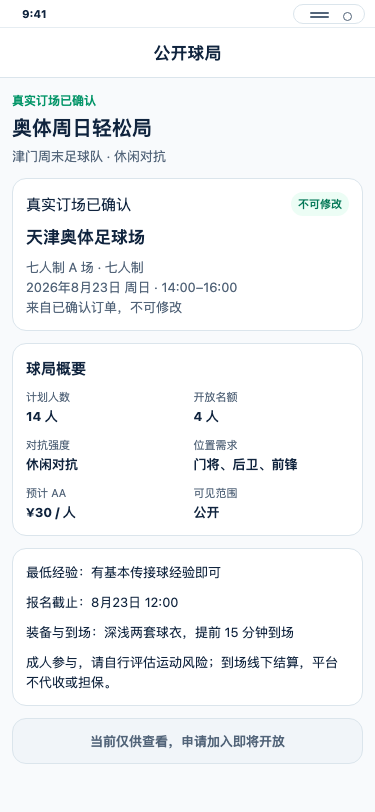
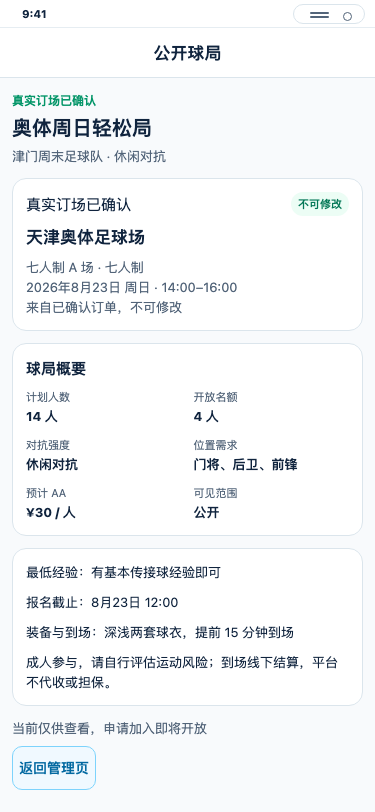
fix: make captain artifact actions honest

Changed region(s): [[0.0293, 0.8621, 0.7627, 0.9852]]

diff --git a/artifacts/ui/references/captain-open-game-data.js b/artifacts/ui/references/captain-open-game-data.js
@@ -7,52 +7,111 @@ const freeze = (value) => {
 };
 
 export const CAPTAIN_OPEN_GAME_STATE_IDS = freeze(["create-ready", "draft-manage", "published-manage", "public-readonly"]);
-export const CONFIRMED_ORDER = freeze({ venue: "天津奥体足球场", pitch: "七人制 A 场", date: "2026年8月23日 周日", time: "14:00–16:00", format: "七人制", booking: "来自已确认订单，不可修改" });
-const baseActions = {
+export const CAPTAIN_OPEN_GAME_INTERNAL_STATE_IDS = freeze([...CAPTAIN_OPEN_GAME_STATE_IDS, "cancelled-readonly"]);
+export const CONFIRMED_ORDER = freeze({
+  venue: "天津奥体足球场", pitch: "七人制 A 场", date: "2026年8月23日 周日", time: "14:00–16:00", format: "七人制", booking: "来自已确认订单，不可修改",
+});
+
+const actions = {
   save: { id: "save-draft", label: "保存草稿", nextState: "draft-manage", fixtureTransition: "save private DRAFT" },
-  preview: { id: "preview", label: "预览公开详情", nextState: "public-readonly", fixtureTransition: "open readonly preview" },
+  preview: { id: "preview", label: "预览公开详情", nextState: "public-readonly", fixtureTransition: "open readonly preview with source" },
   edit: { id: "edit", label: "编辑球局", nextState: "create-ready", fixtureTransition: "restore editable Fixture" },
-  abandon: { id: "abandon", label: "放弃草稿", nextState: "create-ready", fixtureTransition: "confirm then abandon private DRAFT" },
-  publish: { id: "publish", label: "确认发布", nextState: "published-manage", fixtureTransition: "publish Fixture game" },
+  abandon: { id: "abandon", label: "放弃草稿", nextState: "draft-manage", fixtureTransition: "open abandon confirmation" },
+  beginPublish: { id: "begin-publish", label: "发布球局", nextState: "draft-manage", fixtureTransition: "open publish confirmation" },
   share: { id: "share", label: "分享球局", nextState: "published-manage", fixtureTransition: "open Fixture share sheet" },
-  open: { id: "open-public", label: "查看公开页", nextState: "public-readonly", fixtureTransition: "open readonly public page" },
+  open: { id: "open-public", label: "查看公开页", nextState: "public-readonly", fixtureTransition: "open readonly public page with source" },
   cancel: { id: "cancel", label: "取消球局", nextState: "published-manage", fixtureTransition: "open cancel confirmation; booking unchanged" },
+  return: { id: "return-manage", label: "返回管理页", nextState: "draft-manage", fixtureTransition: "return to deterministic manager source" },
 };
+
 export const CAPTAIN_OPEN_GAME_STATES = freeze({
-  "create-ready": { id: "create-ready", title: "创建球局", actions: [baseActions.save], values: { total: 14, fixed: 8, open: 4, intensity: "休闲对抗", positions: "门将、后卫、前锋", aa: "¥30 / 人", deadline: "8月23日 12:00", visibility: "公开" } },
-  "draft-manage": { id: "draft-manage", title: "管理球局", status: "私有草稿", description: "仅你可见，尚未公开或分享。", actions: [baseActions.preview, baseActions.edit, baseActions.abandon, baseActions.publish] },
-  "published-manage": { id: "published-manage", title: "管理球局", status: "已发布", description: "公开详情已可查看；申请功能尚未开放。", actions: [baseActions.share, baseActions.open, baseActions.edit, baseActions.cancel], cancelNotice: "只取消本次开放球局，不会取消已预订场地，也不会发起退款。" },
-  "public-readonly": { id: "public-readonly", title: "公开球局", notice: "当前仅供查看，申请加入即将开放", actions: [] },
+  "create-ready": { id: "create-ready", title: "创建球局", actions: [actions.save], values: { total: 14, fixed: 8, open: 4, intensity: "休闲对抗", positions: "门将、后卫、前锋", aa: "¥30 / 人", deadline: "8月23日 12:00", visibility: "公开" } },
+  "draft-manage": { id: "draft-manage", title: "管理球局", status: "私有草稿", description: "仅你可见，尚未公开或分享。", actions: [actions.preview, actions.edit, actions.abandon, actions.beginPublish] },
+  "published-manage": { id: "published-manage", title: "管理球局", status: "已发布", description: "公开详情已可查看；申请功能尚未开放。", actions: [actions.share, actions.open, actions.edit, actions.cancel], cancelNotice: "只取消本次开放球局，不会取消已预订场地，也不会发起退款。" },
+  "public-readonly": { id: "public-readonly", title: "公开球局", notice: "当前仅供查看，申请加入即将开放", actions: [actions.return] },
+  "cancelled-readonly": { id: "cancelled-readonly", title: "管理球局", lifecycle: "CANCELLED", status: "球局已取消", description: "本次开放球局已取消；真实订场、订单和退款状态均未改变。", actions: [] },
+});
+
+export const FIXTURE_PANELS = freeze({
+  publish: {
+    title: "发布前确认", message: "发布后会展示下列公开信息；平台不代收或担保线下结算。",
+    items: ["真实场地", "开放名额", "预计 AA", "线下结算", "报名截止", "可见范围"],
+    details: [["真实场地", "天津奥体足球场 · 七人制 A 场"], ["开放名额", "4 人"], ["预计 AA", "¥30 / 人"], ["线下结算", "到场线下结算，平台不代收或担保"], ["报名截止", "8月23日 12:00"], ["可见范围", "公开"]],
+    close: { id: "close-panel", label: "返回修改", fixtureTransition: "close publish confirmation" },
+    confirm: { id: "confirm-publish", label: "确认发布", fixtureTransition: "publish Fixture game" },
+  },
+  abandon: {
+    title: "确认放弃草稿？", message: "草稿不会公开，也不会影响已预订场地。",
+    close: { id: "close-panel", label: "继续保留", fixtureTransition: "keep private DRAFT" },
+    confirm: { id: "confirm-abandon", label: "确认放弃草稿", fixtureTransition: "abandon private DRAFT" },
+  },
+  cancel: {
+    title: "确认取消球局？", message: "只取消本次开放球局，不会取消已预订场地，也不会发起退款。",
+    close: { id: "close-panel", label: "继续保留", fixtureTransition: "keep published game" },
+    confirm: { id: "confirm-cancel", label: "确认取消球局", fixtureTransition: "set Fixture lifecycle to CANCELLED; booking unchanged" },
+  },
+  share: {
+    title: "分享球局", message: "Fixture 仅演示微信分享面板；分享不改变球局状态。",
+    close: { id: "close-panel", label: "关闭", fixtureTransition: "dismiss Fixture share sheet" },
+  },
 });
 
 const app = typeof document === "undefined" ? null : document.querySelector("#captain-open-game-app");
-const query = new URLSearchParams(typeof window === "undefined" ? "" : window.location.search);
-let stateId = CAPTAIN_OPEN_GAME_STATE_IDS.includes(query.get("state")) ? query.get("state") : "create-ready";
+const getRoute = () => {
+  const params = new URLSearchParams(typeof window === "undefined" ? "" : window.location.search);
+  const state = CAPTAIN_OPEN_GAME_INTERNAL_STATE_IDS.includes(params.get("state")) ? params.get("state") : "create-ready";
+  const from = ["draft-manage", "published-manage"].includes(params.get("from")) ? params.get("from") : "published-manage";
+  const panel = ["publish", "abandon", "cancel", "share"].includes(params.get("panel")) ? params.get("panel") : null;
+  return { state, from, panel };
+};
+let { state: stateId, from: returnState, panel } = getRoute();
 let feedback = "";
 let formValues = { ...CAPTAIN_OPEN_GAME_STATES["create-ready"].values };
-let overlay = null;
+
 const el = (tag, className, text) => { const node = document.createElement(tag); if (className) node.className = className; if (text !== undefined) node.textContent = text; return node; };
 const button = (action, className = "secondary") => { const node = el("button", className, action.label); node.type = "button"; node.dataset.action = action.id; node.setAttribute("aria-label", action.label); return node; };
-const system = (title) => { const frag = document.createDocumentFragment(); const top = el("div", "system-row"); top.append(el("span", "system-time", "9:41"), el("span", "native-capsule")); const nav = el("header", "nav"); nav.append(el("span", "nav-spacer"), el("h1", "", title), el("span", "nav-spacer")); frag.append(top, nav); return frag; };
+const system = (title) => { const fragment = document.createDocumentFragment(); const top = el("div", "system-row"); top.append(el("span", "system-time", "9:41"), el("span", "native-capsule")); const nav = el("header", "nav"); nav.append(el("span", "nav-spacer"), el("h1", "", title), el("span", "nav-spacer")); fragment.append(top, nav); return fragment; };
 const orderCard = () => { const card = el("section", "card section"); const heading = el("div", "summary-title"); heading.append(el("span", "", "真实订场已确认"), el("span", "readonly", "不可修改")); const name = el("h2", "summary-name", CONFIRMED_ORDER.venue); const meta = el("p", "summary-meta"); meta.append(`${CONFIRMED_ORDER.pitch} · ${CONFIRMED_ORDER.format}`, document.createElement("br"), `${CONFIRMED_ORDER.date} · ${CONFIRMED_ORDER.time}`, document.createElement("br"), CONFIRMED_ORDER.booking); card.append(heading, name, meta); return card; };
 const section = (title, content) => { const card = el("section", "card section"); card.append(el("h2", "section-title", title), content); return card; };
 const inputRow = (label, value, help) => { const row = el("div", "form-row"); row.append(el("span", "field-label", label), el("div", "input-shell", value)); if (help) row.append(el("span", "field-help", help)); return row; };
-const stepper = (label, value, actionPrefix, help) => { const row = el("div", "form-row"); const control = el("div", "stepper"); const decrement = button({ id: `${actionPrefix}-decrease`, label: `${label}减少`, nextState: "create-ready", fixtureTransition: "update form Fixture value" }, "icon-button"); decrement.textContent = "−"; const increment = button({ id: `${actionPrefix}-increase`, label: `${label}增加`, nextState: "create-ready", fixtureTransition: "update form Fixture value" }, "icon-button"); increment.textContent = "+"; control.append(decrement, el("span", "stepper-value", String(value)), increment); row.append(el("span", "field-label", label), control, el("span", "field-help", help)); return row; };
-const selections = (items, active) => { const wrap = el("div", "selection-row"); items.forEach((item) => wrap.append(el("span", `selection${item === active || active.includes?.(item) ? " selection--active" : ""}`, item))); return wrap; };
-const createScreen = (state) => {
+const stepper = (label, value, prefix, help) => { const row = el("div", "form-row"); const control = el("div", "stepper"); const decrement = button({ id: `${prefix}-decrease`, label: `${label}减少` }, "icon-button"); decrement.textContent = "−"; const increment = button({ id: `${prefix}-increase`, label: `${label}增加` }, "icon-button"); increment.textContent = "+"; control.append(decrement, el("span", "stepper-value", String(value)), increment); row.append(el("span", "field-label", label), control, el("span", "field-help", help)); return row; };
+
+const createScreen = () => {
   const screen = el("section", "screen");
   screen.append(orderCard());
-  const group = el("div", ""); group.append(inputRow("球局名称", "奥体周日轻松局"), inputRow("球队名称", "津门周末足球队")); screen.append(section("球局与球队", group));
-  const numbers = el("div", ""); numbers.append(stepper("计划总人数", formValues.total, "total", "范围 4–30 人"), stepper("已有固定队员", formValues.fixed, "fixed", "包含队长本人"), stepper("开放给散客", formValues.open, "open", "至少开放 1 个名额"), el("p", "quantity-copy", `计划共 ${formValues.total} 人，当前固定 ${formValues.fixed} 人，本次开放 ${formValues.open} 个名额`)); screen.append(section("人数与开放名额", numbers));
-  const requirements = el("div", ""); requirements.append(inputRow("对抗强度", formValues.intensity), inputRow("最低经验说明", "有基本传接球经验即可"), inputRow("位置需求", formValues.positions)); screen.append(section("强度、经验与位置", requirements));
-  const terms = el("div", ""); terms.append(inputRow("预计人均 AA", formValues.aa, "到场线下结算，平台不代收或担保"), inputRow("报名截止", formValues.deadline, "不晚于开场前 2 小时"), inputRow("可见范围", formValues.visibility, "公开与仅链接访问均展示相同脱敏详情")); screen.append(section("费用、截止与可见范围", terms));
+  const group = el("div"); group.append(inputRow("球局名称", "奥体周日轻松局"), inputRow("球队名称", "津门周末足球队")); screen.append(section("球局与球队", group));
+  const numbers = el("div"); numbers.append(stepper("计划总人数", formValues.total, "total", "范围 4–30 人"), stepper("已有固定队员", formValues.fixed, "fixed", "包含队长本人"), stepper("开放给散客", formValues.open, "open", "至少开放 1 个名额"), el("p", "quantity-copy", `计划共 ${formValues.total} 人，当前固定 ${formValues.fixed} 人，本次开放 ${formValues.open} 个名额`)); screen.append(section("人数与开放名额", numbers));
+  const requirements = el("div"); requirements.append(inputRow("对抗强度", formValues.intensity), inputRow("最低经验说明", "有基本传接球经验即可"), inputRow("位置需求", formValues.positions)); screen.append(section("强度、经验与位置", requirements));
+  const terms = el("div"); terms.append(inputRow("预计人均 AA", formValues.aa, "到场线下结算，平台不代收或担保"), inputRow("报名截止", formValues.deadline, "不晚于开场前 2 小时"), inputRow("可见范围", formValues.visibility, "公开与仅链接访问均展示相同脱敏详情")); screen.append(section("费用、截止与可见范围", terms));
   screen.append(el("p", "disclosure", "装备：深浅两套球衣；提前 15 分钟到场。保存后仅创建你可见的私有草稿。"));
   return screen;
 };
 const gameSummary = () => { const card = el("section", "card section"); const grid = el("dl", "summary-grid"); [["计划人数", "14 人"], ["开放名额", "4 人"], ["对抗强度", "休闲对抗"], ["位置需求", "门将、后卫、前锋"], ["预计 AA", "¥30 / 人"], ["可见范围", "公开"]].forEach(([term, value]) => { const item = el("div"); item.append(el("dt", "", term), el("dd", "", value)); grid.append(item); }); card.append(el("h2", "summary-title", "球局概要"), grid); return card; };
-const manageScreen = (state) => { const screen = el("section", "screen screen--manage"); const status = el("section", "status-row"); const copy = el("div"); copy.append(el("strong", "", state.status), el("p", "", state.description)); status.append(el("span", "status-dot"), copy); screen.append(status, orderCard(), gameSummary()); const actions = el("section", "action-list section"); state.actions.forEach((action) => actions.append(button(action, action.id === "cancel" || action.id === "abandon" ? "danger" : action.id === "publish" ? "primary" : "secondary"))); screen.append(section("可用操作", actions)); if (state.cancelNotice) screen.append(el("p", "disclosure", state.cancelNotice)); return screen; };
-const publicScreen = (state) => { const screen = el("section", "screen screen--public"); screen.append(el("p", "eyebrow", "真实订场已确认"), el("h2", "public-heading", "奥体周日轻松局"), el("p", "public-subtitle", "津门周末足球队 · 休闲对抗"), orderCard(), gameSummary()); const details = el("section", "card public-details section"); details.append(el("p", "", "最低经验：有基本传接球经验即可"), el("p", "", "报名截止：8月23日 12:00"), el("p", "", "装备与到场：深浅两套球衣，提前 15 分钟到场"), el("p", "", "成人参与，请自行评估运动风险；到场线下结算，平台不代收或担保。")); screen.append(details, el("section", "notice", state.notice)); return screen; };
-const renderOverlay = () => { if (!overlay) return null; const scrim = el("section", "fixture-scrim"); const sheet = el("section", "fixture-sheet"); const action = { id: overlay.action, label: overlay.label, nextState: stateId, fixtureTransition: overlay.transition }; sheet.append(el("h2", "", overlay.title), el("p", "", overlay.message), button(action, overlay.danger ? "danger" : "primary")); scrim.append(sheet); return scrim; };
-const transition = (action) => { const step = /^(total|fixed|open)-(increase|decrease)$/.exec(action); if (step) { const [, field, direction] = step; const amount = direction === "increase" ? 1 : -1; const limits = { total: [4, 30], fixed: [1, formValues.total - formValues.open], open: [1, formValues.total - formValues.fixed] }; formValues[field] = Math.min(limits[field][1], Math.max(limits[field][0], formValues[field] + amount)); feedback = "update form Fixture value"; render(); return; } if (action === "share") { feedback = "open Fixture share sheet"; overlay = { title: "分享球局", message: "Fixture 仅演示微信分享面板；分享不改变球局状态。", label: "关闭", action: "dismiss-overlay", transition: "dismiss Fixture share sheet" }; render(); return; } if (action === "cancel") { feedback = "open cancel confirmation; booking unchanged"; overlay = { title: "确认取消球局？", message: "只取消本次开放球局，不会取消已预订场地，也不会发起退款。", label: "确认取消球局", action: "confirm-cancel", transition: "confirm cancellation Fixture; booking unchanged", danger: true }; render(); return; } if (action === "abandon") { feedback = "open abandon confirmation"; overlay = { title: "确认放弃草稿？", message: "草稿不会公开，也不会影响已预订场地。", label: "确认放弃草稿", action: "confirm-abandon", transition: "confirm abandon private DRAFT", danger: true }; render(); return; } if (action === "dismiss-overlay") { feedback = "dismiss Fixture share sheet"; overlay = null; render(); return; } if (action === "confirm-cancel") { feedback = "cancelled open game Fixture; booking unchanged"; overlay = null; render(); return; } if (action === "confirm-abandon") { feedback = "abandoned private DRAFT Fixture"; overlay = null; stateId = "create-ready"; render(); return; } const current = CAPTAIN_OPEN_GAME_STATES[stateId]; const found = current.actions.find(({ id }) => id === action); if (!found) return; feedback = found.fixtureTransition; stateId = found.nextState; const params = new URLSearchParams(window.location.search); params.set("state", stateId); window.history.replaceState({}, "", `${window.location.pathname}?${params}`); render(); };
-function render() { const state = CAPTAIN_OPEN_GAME_STATES[stateId]; app.replaceChildren(system(state.title)); if (feedback) app.append(el("p", "fixture-feedback", `Fixture：${feedback}`)); app.append(stateId === "create-ready" ? createScreen(state) : stateId === "public-readonly" ? publicScreen(state) : manageScreen(state)); if (stateId === "create-ready") { const footer = el("footer", "footer"); footer.append(button(baseActions.save, "primary")); app.append(footer); } const sheet = renderOverlay(); if (sheet) app.append(sheet); app.querySelectorAll("button[data-action]").forEach((node) => node.addEventListener("click", () => transition(node.dataset.action))); }
-if (app) render();
+const manageScreen = (state) => { const screen = el("section", "screen screen--manage"); const status = el("section", `status-row${state.lifecycle === "CANCELLED" ? " status-row--cancelled" : ""}`); const copy = el("div"); copy.append(el("strong", "", state.status), el("p", "", state.description)); status.append(el("span", "status-dot"), copy); screen.append(status, orderCard(), gameSummary()); if (state.actions.length) { const list = el("section", "action-list section"); state.actions.forEach((action) => list.append(button(action, action.id === "cancel" || action.id === "abandon" ? "danger" : action.id === "begin-publish" ? "primary" : "secondary"))); screen.append(section("可用操作", list)); } if (state.cancelNotice) screen.append(el("p", "disclosure", state.cancelNotice)); return screen; };
+const publicScreen = (state) => { const screen = el("section", "screen screen--public"); screen.append(el("p", "eyebrow", "真实订场已确认"), el("h2", "public-heading", "奥体周日轻松局"), el("p", "public-subtitle", "津门周末足球队 · 休闲对抗"), orderCard(), gameSummary()); const details = el("section", "card public-details section"); details.append(el("p", "", "最低经验：有基本传接球经验即可"), el("p", "", "报名截止：8月23日 12:00"), el("p", "", "装备与到场：深浅两套球衣，提前 15 分钟到场"), el("p", "", "成人参与，请自行评估运动风险；到场线下结算，平台不代收或担保。")); screen.append(details, el("p", "public-notice", state.notice), button(actions.return, "secondary")); return screen; };
+const renderPanel = () => {
+  if (!panel) return null;
+  const data = FIXTURE_PANELS[panel]; const scrim = el("section", "fixture-scrim"); const sheet = el("section", "fixture-sheet");
+  sheet.append(el("h2", "", data.title), el("p", "", data.message));
+  if (data.details) { const details = el("dl", "confirm-details"); data.details.forEach(([label, value]) => { const item = el("div"); item.append(el("dt", "", label), el("dd", "", value)); details.append(item); }); sheet.append(details); }
+  const controls = el("div", "fixture-sheet__actions"); if (data.close) controls.append(button(data.close, "secondary")); if (data.confirm) controls.append(button(data.confirm, panel === "cancel" || panel === "abandon" ? "danger" : "primary")); sheet.append(controls); scrim.append(sheet); return scrim;
+};
+const syncUrl = () => { const params = new URLSearchParams(window.location.search); params.set("state", stateId); if (stateId === "public-readonly") params.set("from", returnState); else params.delete("from"); window.history.pushState({ state: stateId, from: returnState }, "", `${window.location.pathname}?${params}`); };
+const go = (nextState, source = stateId) => { stateId = nextState; if (["draft-manage", "published-manage"].includes(source)) returnState = source; panel = null; syncUrl(); render(); };
+const transition = (action) => {
+  const step = /^(total|fixed|open)-(increase|decrease)$/.exec(action);
+  if (step) { const [, field, direction] = step; const amount = direction === "increase" ? 1 : -1; const limits = { total: [4, 30], fixed: [1, formValues.total - formValues.open], open: [1, formValues.total - formValues.fixed] }; formValues[field] = Math.min(limits[field][1], Math.max(limits[field][0], formValues[field] + amount)); feedback = "update form Fixture value"; render(); return; }
+  if (action === "begin-publish") { feedback = actions.beginPublish.fixtureTransition; panel = "publish"; render(); return; }
+  if (action === "abandon") { feedback = actions.abandon.fixtureTransition; panel = "abandon"; render(); return; }
+  if (action === "cancel") { feedback = actions.cancel.fixtureTransition; panel = "cancel"; render(); return; }
+  if (action === "share") { feedback = actions.share.fixtureTransition; panel = "share"; render(); return; }
+  if (action === "close-panel") { feedback = FIXTURE_PANELS[panel].close.fixtureTransition; panel = null; render(); return; }
+  if (action === "confirm-publish") { feedback = FIXTURE_PANELS.publish.confirm.fixtureTransition; go("published-manage", "draft-manage"); return; }
+  if (action === "confirm-abandon") { feedback = FIXTURE_PANELS.abandon.confirm.fixtureTransition; go("create-ready"); return; }
+  if (action === "confirm-cancel") { feedback = FIXTURE_PANELS.cancel.confirm.fixtureTransition; go("cancelled-readonly", "published-manage"); return; }
+  if (action === "return-manage") { feedback = actions.return.fixtureTransition; go(returnState, returnState); return; }
+  const found = CAPTAIN_OPEN_GAME_STATES[stateId].actions.find(({ id }) => id === action); if (!found) return;
+  feedback = found.fixtureTransition; go(found.nextState, stateId);
+};
+function render() { const state = CAPTAIN_OPEN_GAME_STATES[stateId]; app.replaceChildren(system(state.title)); if (feedback) app.append(el("p", "fixture-feedback", `Fixture：${feedback}`)); app.append(stateId === "create-ready" ? createScreen() : stateId === "public-readonly" ? publicScreen(state) : manageScreen(state)); if (stateId === "create-ready") { const footer = el("footer", "footer"); footer.append(button(actions.save, "primary")); app.append(footer); } const overlay = renderPanel(); if (overlay) app.append(overlay); app.querySelectorAll("button[data-action]").forEach((node) => node.addEventListener("click", () => transition(node.dataset.action))); }
+if (app) { window.addEventListener("popstate", () => { ({ state: stateId, from: returnState, panel } = getRoute()); render(); }); render(); }

diff --git a/artifacts/ui/references/captain-open-game.css b/artifacts/ui/references/captain-open-game.css
@@ -37,7 +37,7 @@ button { color: inherit; cursor: pointer; }
 .screen::-webkit-scrollbar { display: none; }
 .screen--manage, .screen--public { padding-bottom: 28px; }
 
-.card, .notice, .state-card { border: 1px solid var(--border); border-radius: 14px; background: var(--surface); }
+.card, .state-card { border: 1px solid var(--border); border-radius: 14px; background: var(--surface); }
 .card { padding: 13px; }
 .section { margin: 0 0 12px; }
 .section-title, .summary-title { display: flex; align-items: center; justify-content: space-between; gap: 8px; margin: 0 0 9px; font-size: 15px; line-height: 22px; }
@@ -73,6 +73,9 @@ button { color: inherit; cursor: pointer; }
 .status-row strong, .status-row p { margin: 0; }
 .status-row strong { display: block; font-size: 14px; line-height: 20px; }
 .status-row p { margin-top: 2px; color: #047857; font-size: 12px; line-height: 18px; }
+.status-row--cancelled { border-color: #FECACA; background: var(--danger-bg); }
+.status-row--cancelled .status-dot { background: var(--danger); }
+.status-row--cancelled p { color: var(--danger); }
 .summary-grid { display: grid; grid-template-columns: 1fr 1fr; gap: 10px 12px; margin: 0; }
 .summary-grid div { min-width: 0; }
 .summary-grid dt { color: var(--muted); font-size: 11px; line-height: 17px; }
@@ -82,7 +85,7 @@ button { color: inherit; cursor: pointer; }
 .public-subtitle { margin: 0 0 12px; color: var(--muted); font-size: 13px; line-height: 20px; }
 .public-details { display: grid; gap: 10px; }
 .public-details p { margin: 0; font-size: 13px; line-height: 20px; }
-.notice { padding: 12px; background: #F1F5F9; color: var(--muted); font-size: 13px; font-weight: 700; line-height: 20px; text-align: center; }
+.public-notice { margin: 12px 0 8px; color: var(--muted); font-size: 13px; line-height: 20px; text-align: left; }
 .disclosure { margin: 12px 0 0; color: var(--muted-light); font-size: 12px; line-height: 18px; }
 .fixture-feedback { margin: 0 0 10px; color: var(--brand-strong); font-size: 12px; line-height: 18px; text-align: center; }
 .fixture-scrim { position: fixed; z-index: 4; inset: 0; display: flex; align-items: flex-end; width: 375px; padding: 0 12px calc(12px + env(safe-area-inset-bottom)); background: rgb(16 36 62 / 48%); }
@@ -90,6 +93,11 @@ button { color: inherit; cursor: pointer; }
 .fixture-sheet h2, .fixture-sheet p { margin: 0; }
 .fixture-sheet h2 { font-size: 17px; line-height: 24px; }
 .fixture-sheet p { margin-top: 6px; color: var(--muted); font-size: 13px; line-height: 20px; }
-.fixture-sheet .primary, .fixture-sheet .secondary { margin-top: 14px; }
+.fixture-sheet__actions { display: grid; grid-template-columns: 1fr 1fr; gap: 8px; margin-top: 14px; }
+.fixture-sheet__actions:has(.primary:only-child), .fixture-sheet__actions:has(.danger:only-child) { grid-template-columns: 1fr; }
+.confirm-details { display: grid; gap: 7px; margin: 13px 0 0; padding: 10px 0; border-top: 1px solid var(--border); border-bottom: 1px solid var(--border); }
+.confirm-details div { display: flex; align-items: baseline; justify-content: space-between; gap: 12px; }
+.confirm-details dt { color: var(--muted); font-size: 12px; line-height: 18px; }
+.confirm-details dd { margin: 0; font-size: 12px; font-weight: 700; line-height: 18px; text-align: right; }
 
 @media (prefers-reduced-motion: no-preference) { button { transition: opacity 160ms ease, background-color 160ms ease, border-color 160ms ease; } }

diff --git a/artifacts/ui/flows/captain-open-game.md b/artifacts/ui/flows/captain-open-game.md
@@ -4,18 +4,22 @@
 
 `create-ready → draft-manage`：点击“保存草稿”，以真实已确认订单摘要创建仅队长可见的私有草稿。
 
-`draft-manage → public-readonly`：点击“预览公开详情”；公开页保持只读。
+`draft-manage → public-readonly`：点击“预览公开详情”；来源写入浏览器 history，公开页点击“返回管理页”会确定性地返回 `draft-manage`。
 
 `draft-manage → create-ready`：点击“编辑球局”或“放弃草稿”；放弃草稿需二次确认，Fixture 返回可编辑创建页。
 
-`draft-manage → published-manage`：点击“确认发布”，以 Fixture transition 展示已发布管理状态。
+`draft-manage → draft-manage`：点击主操作“发布球局”先展开一页内“发布前确认”，列出真实场地、开放名额、预计 AA、线下结算、报名截止和可见范围；“返回修改”关闭确认层。
 
-`published-manage → published-manage`：点击“分享球局”打开 Fixture 分享动作；点击“取消球局”打开确认意图。取消球局不改订单、不取消已预订场地、不发起退款。
+`draft-manage → published-manage`：只有点击“确认发布”才以 Fixture transition 展示已发布管理状态。
 
-`published-manage → public-readonly`：点击“查看公开页”。
+`published-manage → published-manage`：点击“分享球局”打开 Fixture 分享动作；点击“取消球局”打开确认层，提供“继续保留”关闭动作。取消球局不改订单、不取消已预订场地、不发起退款。
+
+`published-manage → cancelled-readonly`：只有点击“确认取消球局”才进入内部 `CANCELLED` 只读结果；该结果隐藏分享、编辑和取消操作，不增加第五张 reference 或 manifest 状态。
+
+`published-manage → public-readonly`：点击“查看公开页”；公开页“返回管理页”确定性地返回 `published-manage`，并保留浏览器返回历史。
 
 `published-manage → create-ready`：点击“编辑球局”恢复可编辑 Fixture。
 
-`public-readonly`：没有可用按钮；“当前仅供查看，申请加入即将开放”为非交互说明。
+`public-readonly`：“当前仅供查看，申请加入即将开放”为普通非交互说明文字，不使用 CTA 外观；仅“返回管理页”可用。
 
 公开页只公开场馆、物理场地、日期时间、人数、强度、位置、AA、截止和到场说明；公开页不暴露联系、订单或支付字段。

diff --git a/artifacts/ui/reviews/captain-open-game/README.md b/artifacts/ui/reviews/captain-open-game/README.md
@@ -18,6 +18,6 @@
 
 ## Reference self-review
 
-Real Chromium was used at `375 × 812` CSS pixels to capture only the four approved reference states. Each visible action uses an explicit Fixture transition; the public-readonly screen has no product button or false CTA. Buttons and stepper controls use flex two-axis centering and at least `44 × 44` CSS pixels. The create footer is fixed with bottom safe-area padding while its scroll content reserves room beneath it. Long supporting copy wraps inside cards; there is no horizontal overflow.
+Real Chromium was used at `375 × 812` CSS pixels to capture only the four approved reference states. Each visible action uses an explicit Fixture transition. Draft publishing first opens a confirmation layer with the real pitch, capacity, AA, offline settlement, deadline and visibility; cancellation and abandon confirmations both have “继续保留” close actions. Confirmed cancellation reaches an internal `CANCELLED` readonly result with no share, edit or cancel operation, but it is not a fifth reference capture. Public readonly has a real “返回管理页” action and a plain, non-CTA “申请加入即将开放” information line. Buttons and stepper controls use flex two-axis centering and at least `44 × 44` CSS pixels. The create footer is fixed with bottom safe-area padding while its scroll content reserves room beneath it. Long supporting copy wraps inside cards; there is no horizontal overflow.
 
 Visible differences / follow-up: this is browser Artifact evidence, not native Mini Program evidence. WeChat chrome, keyboard behavior, and real-device safe-area rendering remain unreviewed until Task 2 starts after visual approval. No emojis, remote images, fake application CTA, contact detail, order identifier, or payment detail is present.
